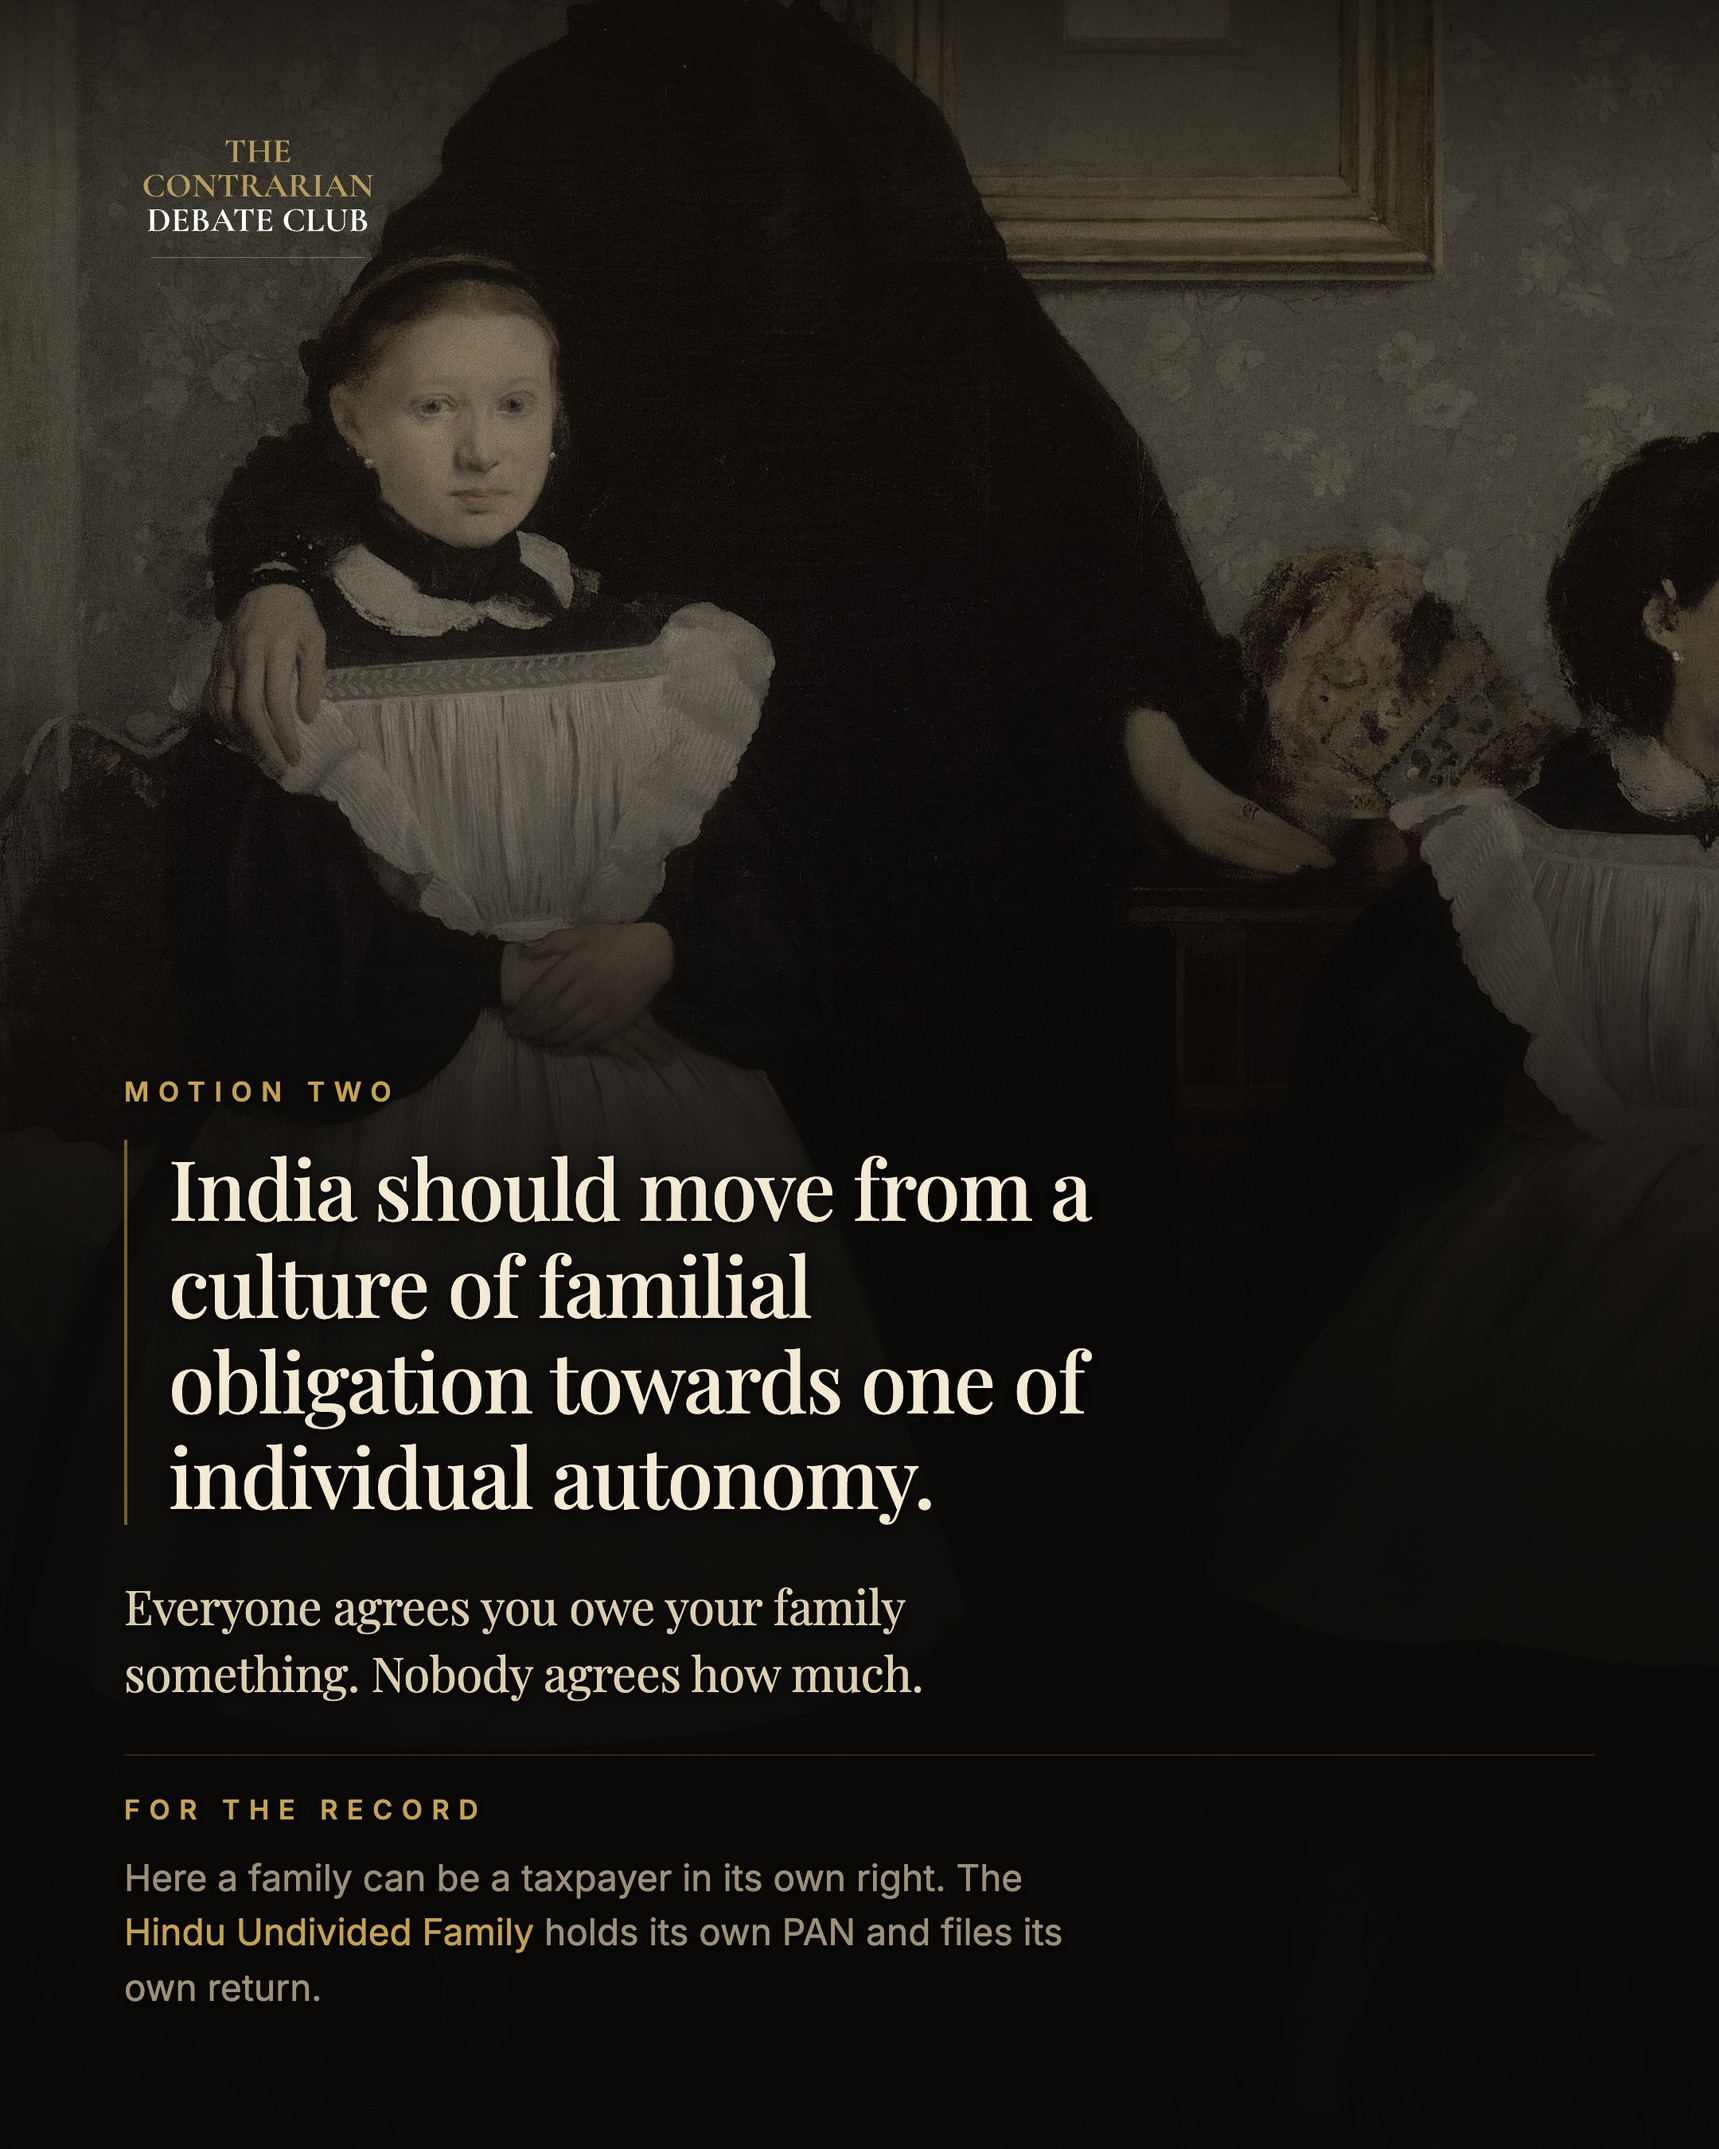
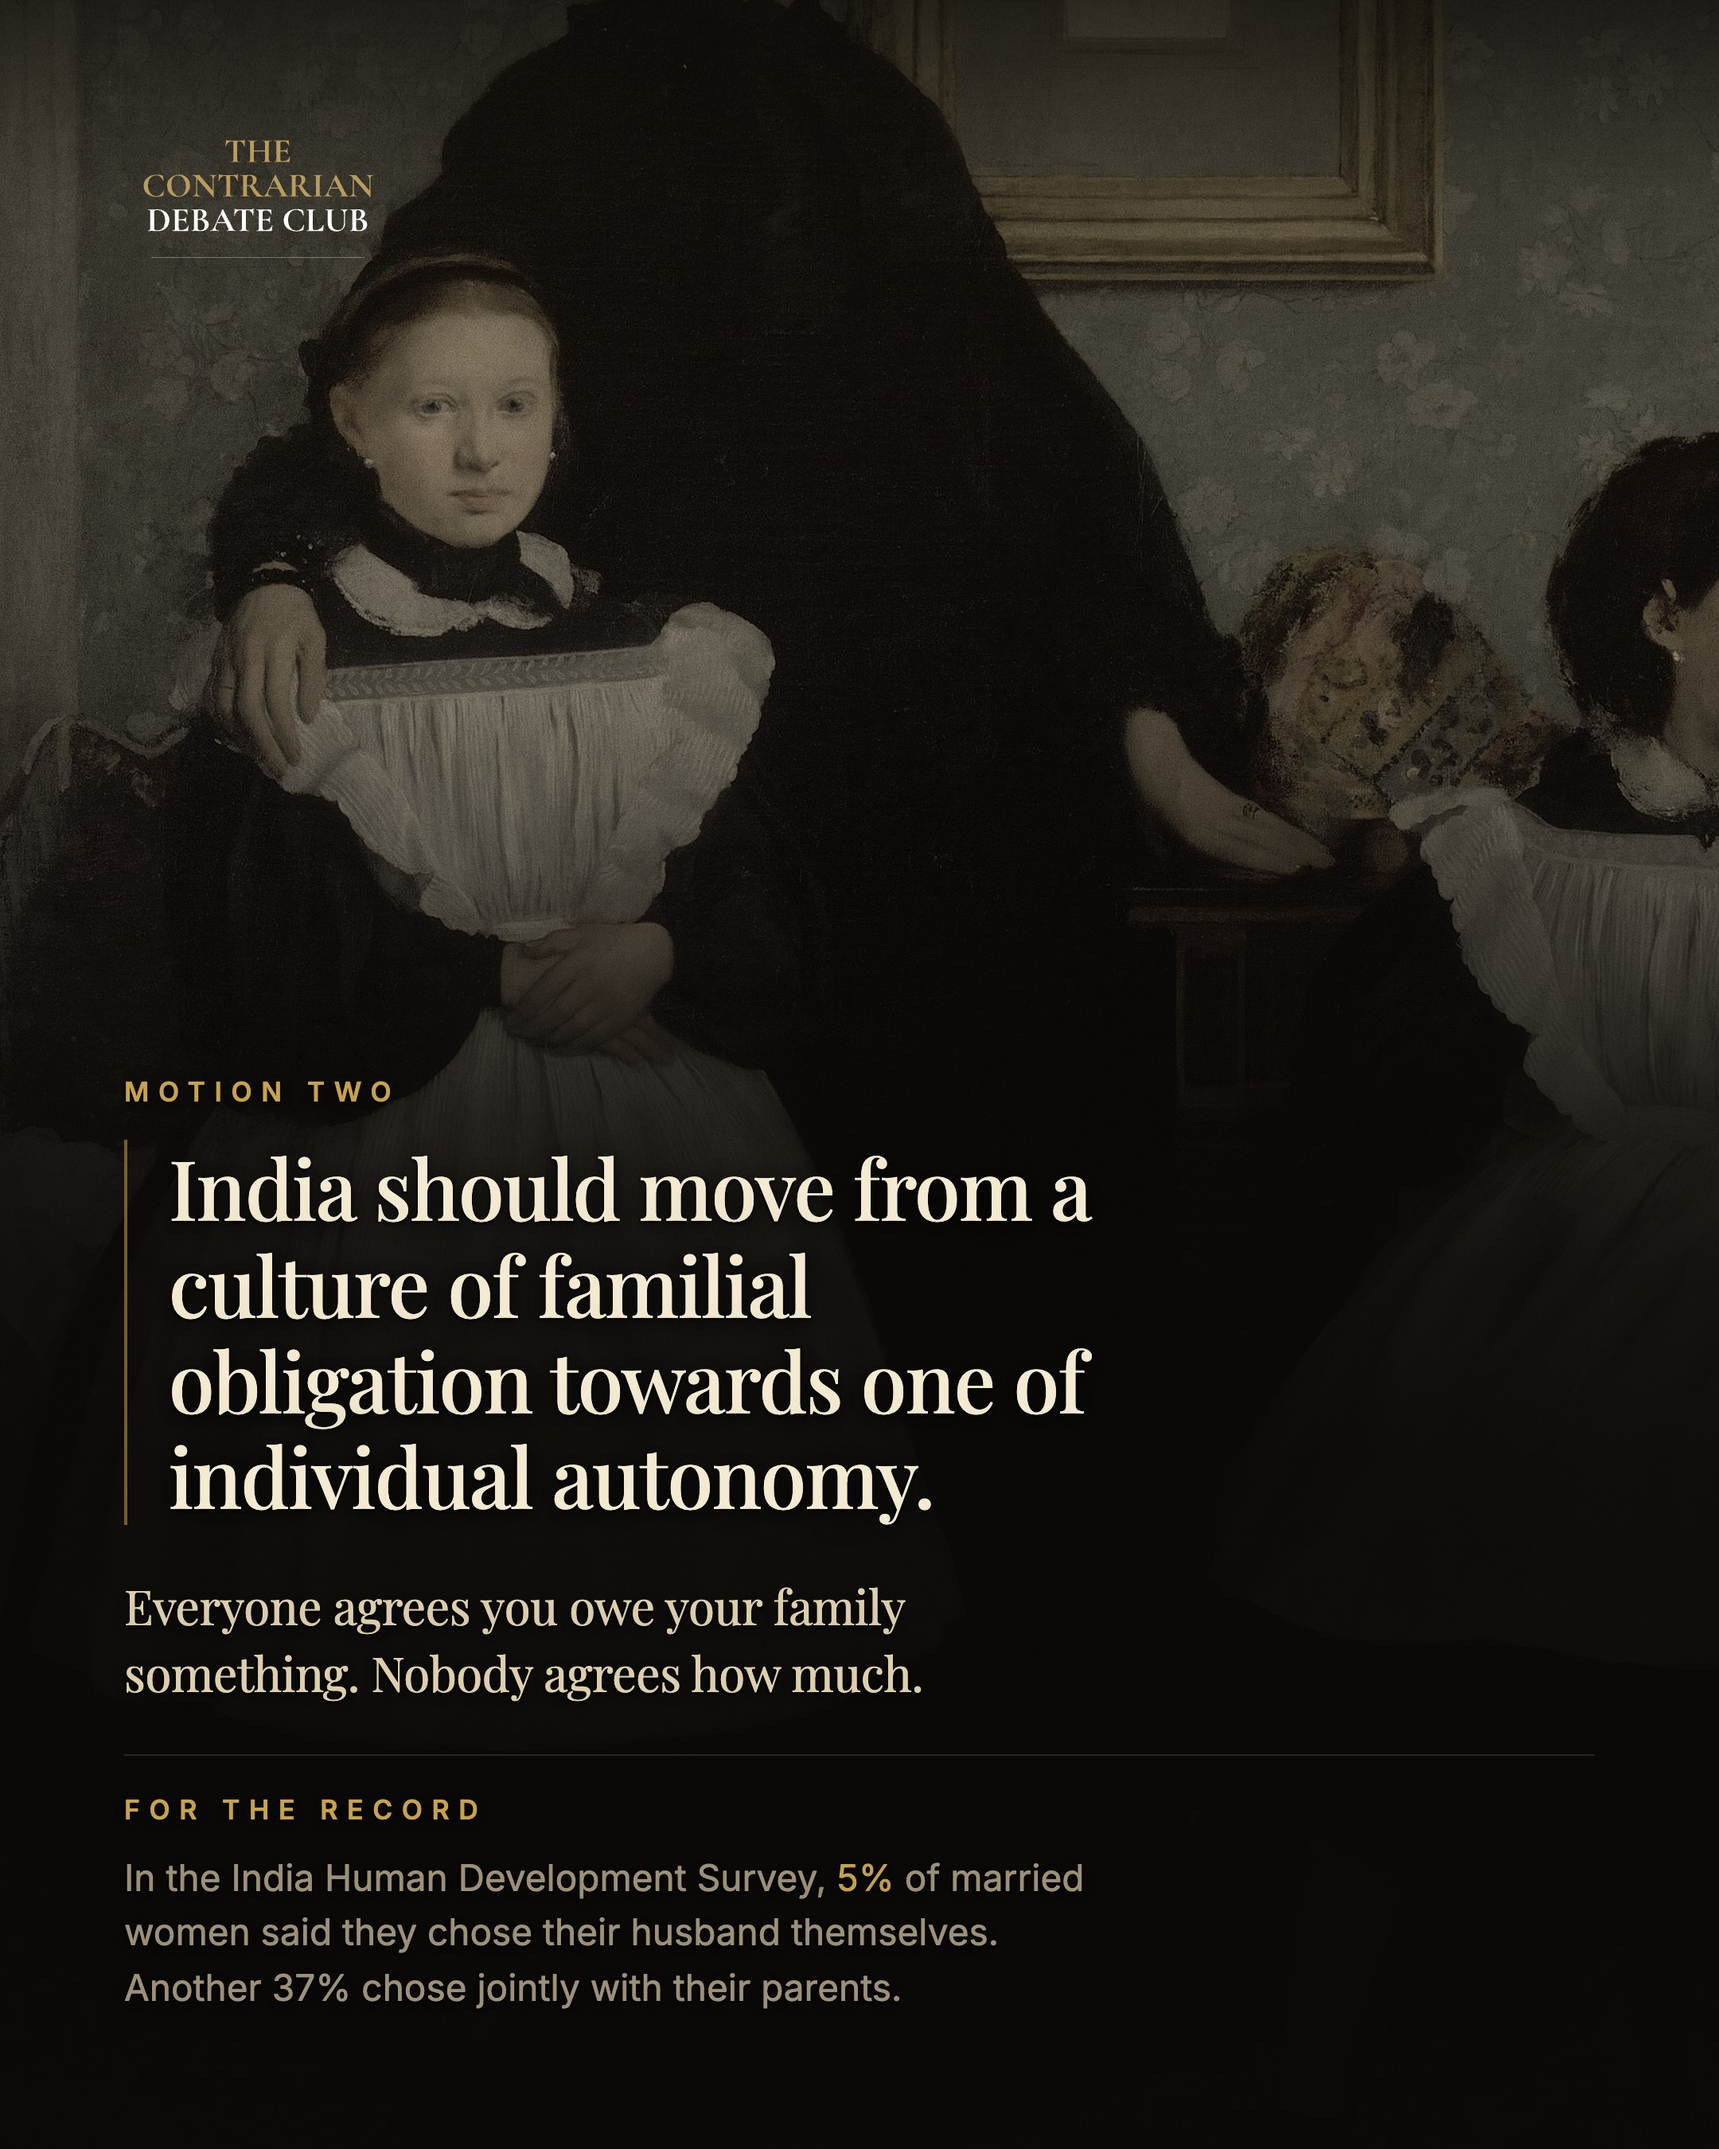
fix(posters): put a fact about autonomy on the autonomy motion
The Hindu Undivided Family was a fact about the family as a property and
tax unit, and the motion is about obligation and autonomy. It was the
most surprising thing to hand rather than the most relevant one.

The slide now carries the choice the motion is really about: 5% of
married women in the India Human Development Survey said they chose
their husband themselves, and another 37% chose jointly with their
parents. The survey round is 2011-12, which the README says and the
slide does not, since it names the survey instead of a year.

Claude-Session: https://claude.ai/code/session_014DQYxtdvn74XL18mdMvSLQ

Changed region(s): [[0.062, 0.8711, 0.6204, 0.9333]]

diff --git a/posters/works/2026-08-23-debate-9-recap/spec.tsx b/posters/works/2026-08-23-debate-9-recap/spec.tsx
@@ -177,8 +177,8 @@ const work: WorkSpec = {
           note="Everyone agrees you owe your family something. Nobody agrees how much."
           fact={
             <>
-              Here a family can be a taxpayer in its own right. The <G>Hindu Undivided Family</G>{" "}
-              holds its own PAN and files its own return.
+              In the India Human Development Survey, <G>5%</G> of married women said they chose
+              their husband themselves. Another 37% chose jointly with their parents.
             </>
           }
         />

diff --git a/posters/works/2026-08-23-debate-9-recap/README.md b/posters/works/2026-08-23-debate-9-recap/README.md
@@ -45,16 +45,24 @@ of these motions somebody has already decided for you.
   the state to bring about prohibition of intoxicating drinks. Gujarat, Bihar,
   Mizoram, Nagaland and Lakshadweep enforce it, which is the "five states and
   territories" on the slide.
-- **Motion two.** The Hindu Undivided Family is a "person" under Section 2(31)
-  of the Income Tax Act, 1961, assessed separately from its members: it holds
-  its own PAN and files its own return.
+- **Motion two.** The India Human Development Survey asked ever-married women
+  aged 25 to 49 who chose their husband. 5% said they chose alone, and 37% said
+  they chose jointly with their parents. The survey round is 2011-12, so the
+  slide names the survey rather than a year, and a later round should be
+  checked before this copy is reused.
 
-Two facts that were on these slides and came off, kept here because they are
-still true and still good: attempting suicide was a crime until Section 115 of
-the Mental Healthcare Act, 2017 replaced the presumption of guilt with a
-presumption of severe stress; and under the Maintenance and Welfare of Parents
-and Senior Citizens Act, 2007, children owe their parents maintenance and
-abandoning a senior citizen carries up to three months' imprisonment.
+Three facts that were on these slides and came off, kept here because they are
+still true. Attempting suicide was a crime until Section 115 of the Mental
+Healthcare Act, 2017 replaced the presumption of guilt with a presumption of
+severe stress. Under the Maintenance and Welfare of Parents and Senior Citizens
+Act, 2007, children owe their parents maintenance and abandoning a senior
+citizen carries up to three months' imprisonment. And a Hindu Undivided Family
+is a "person" under Section 2(31) of the Income Tax Act, 1961, with its own PAN
+and its own return.
+
+That last one came off because it is a fact about the family as a property and
+tax unit, and the motion is about obligation and autonomy. Surprising is not
+the same as relevant, and on a motion slide relevant wins.
 
 ## Everything on the odds and ends slide
 
